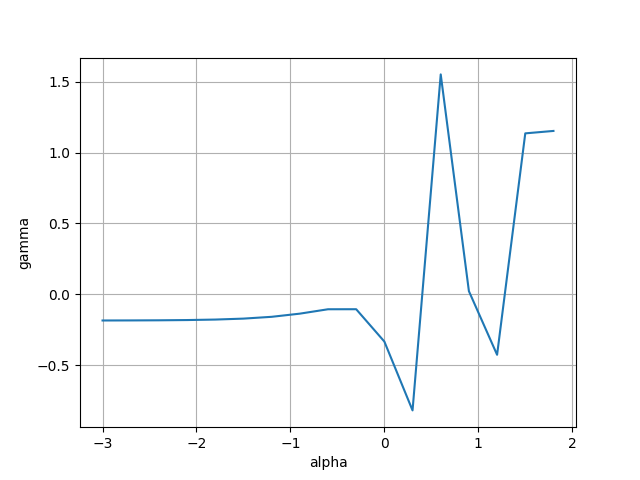
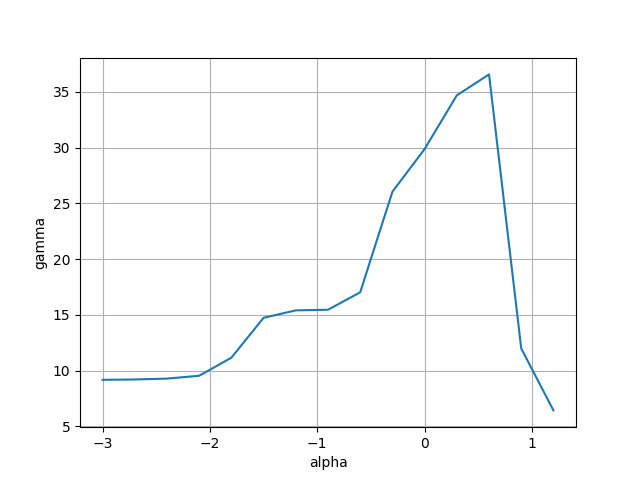
additional graphs

diff --git a/jet.py b/jet.py
@@ -3,6 +3,7 @@ import numpy as np
 import pandas as pd
 from scipy.integrate import RK45
 import matplotlib.pyplot as plt
+from joblib import Parallel, delayed
 
 class SolverSph():
 
@@ -21,11 +22,11 @@ class SolverSph():
 		
 		
 		self.t_beg = 0.
-		self.t_end = 1.
+		self.t_end = 200000.
 		self.solver = RK45(self.system_sph, t0=self.t_beg, \
 				y0=np.array([self.r0, self.th0, self.phi0, self.Pr0, \
 				self.Pth0, self.Pphi0]), \
-				t_bound=self.t_end, max_step=0.0001)
+				t_bound=self.t_end, max_step=0.002)
 
 	""" Part related to sphere """
 	def sum_gamma(self, *args):
@@ -313,15 +314,25 @@ plt.plot(ans[1][0], ans[1][2])
 plt.savefig("graphs.png")
 """
 x_p, y_p = [], []
-x_p = np.arange(np.log10(10.**(-3)), np.log10(100.), 0.3)
+#x_p = np.arange(np.log10(10.**(-3)), np.log10(30.), 0.3)
+x_p = np.arange(np.log10(10**(-6)), np.log(1.), 0.5)
+"""
 for el0,el in enumerate(x_p):
-	sol = SolverSph(kap=0.0001, alp=10**(el))
+	sol = SolverSph(kap=0.01, alp=10**(el))
 	ans = sol.steps()
 	y_p.append(sol.sum_gamma(ans[1][3], ans[1][4], ans[1][5])[-1])
-	print(el0, len(x_p))
+	print(el0, len(x_p), ans[0][-1], ans[1][0][-1]*np.sin(ans[1][1][-1]))
+"""
+def sol_dynamics(el):
+	sol = SolverSph(kap=10**el, alp=0.01)
+	#sol = SolverCylNoKappa()
+	ans = sol.steps()
+	return sol.sum_gamma(ans[1][3], ans[1][4], ans[1][5])[-1]
+
+y_p = Parallel(n_jobs=-1, verbose=10)(delayed(sol_dynamics)(el) for el in x_p)
 
 plt.plot(x_p, y_p)
 plt.xlabel("alpha")
 plt.ylabel("gamma")
 plt.grid()
-plt.savefig("lorentz.png")
+plt.savefig("gam_kap.png")
